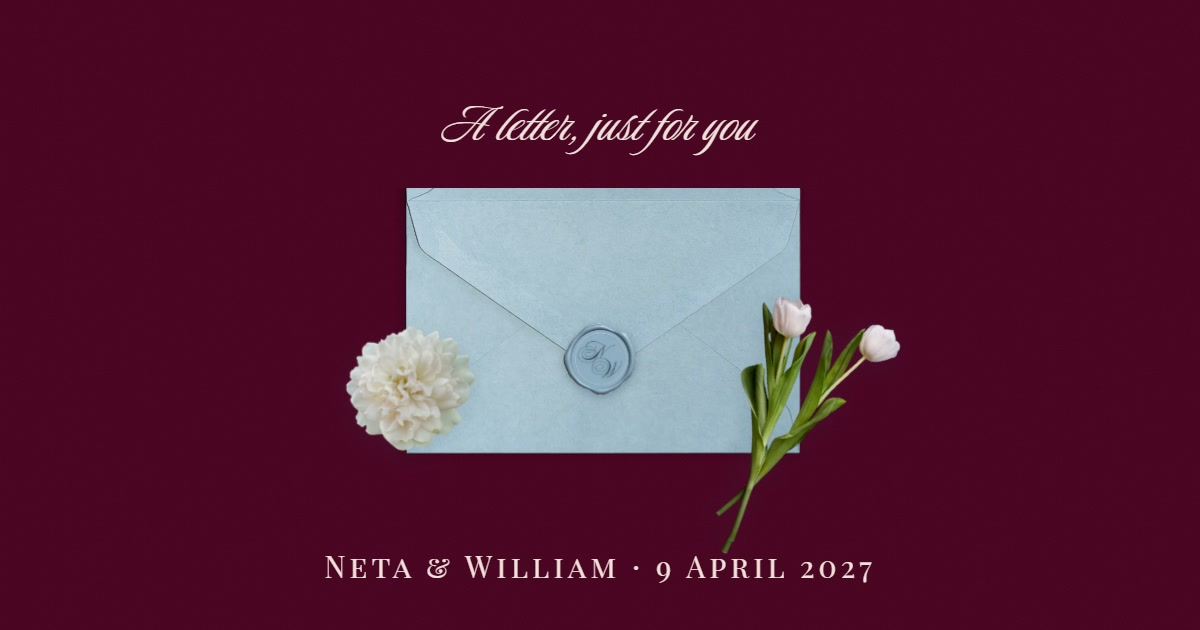
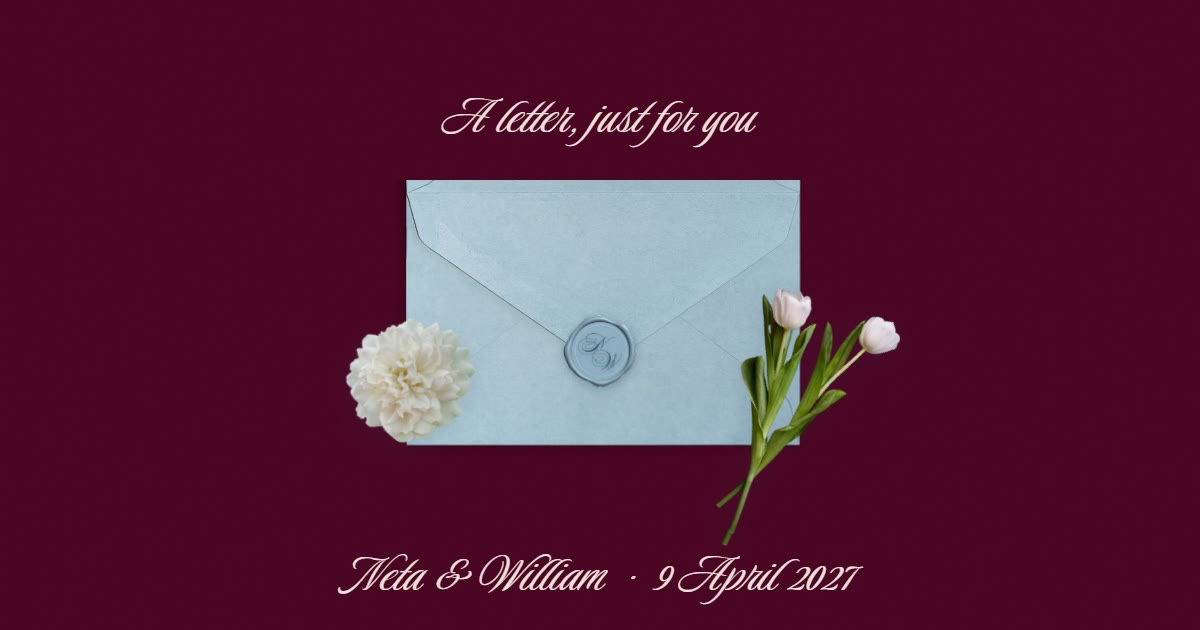
Set the thumbnail's bottom line in Luxurious Script
Matches the heading above the envelope. The image URL gets ?v=2 so
WhatsApp fetches the new picture instead of its cached one.

diff --git a/index.html b/index.html
@@ -9,7 +9,7 @@
 <meta property="og:site_name" content="נטע &amp; וויליאם">
 <meta property="og:title" content="נטע &amp; וויליאם מתחתנים">
 <meta property="og:description" content="יש לנו הזמנה בשבילכם · 9 באפריל 2027 · חוות אלנבי, נצר סירני">
-<meta property="og:image" content="https://wedding-invite.winterman.net/og-image.jpg">
+<meta property="og:image" content="https://wedding-invite.winterman.net/og-image.jpg?v=2">
 <meta property="og:url" content="https://wedding-invite.winterman.net/">
 <meta property="og:image:type" content="image/jpeg">
 <meta property="og:image:width" content="1200">
